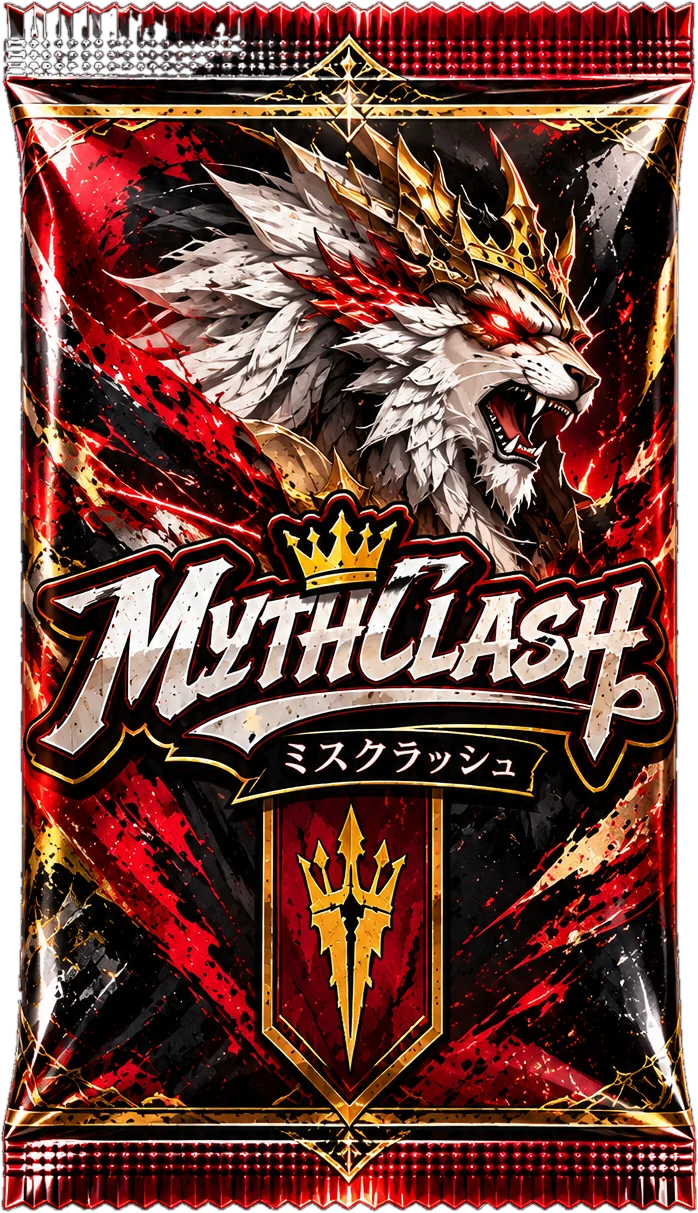
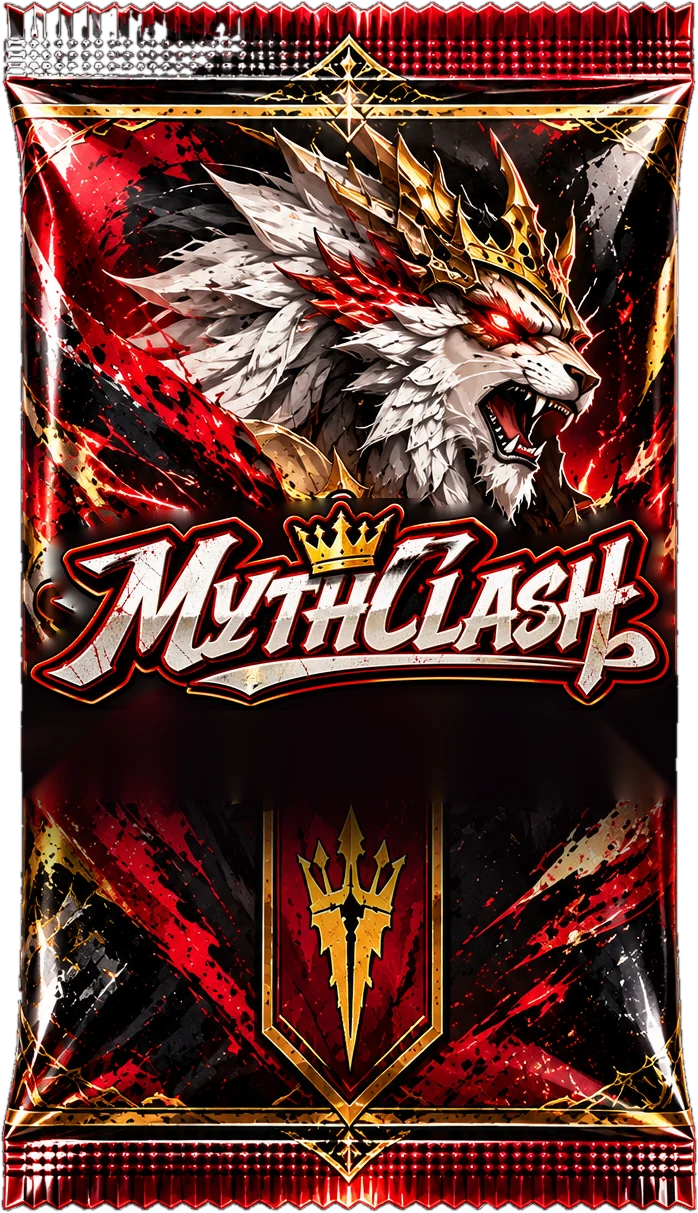
MYTHCLASH: タイトルとパックのロゴを新しいロゴに差しかえ（カタカナは消す）
Claude-Session: https://claude.ai/code/session_01MXithgTc5umkveoyZShZHQ

Changed region(s): [[0.0301, 0.3965, 0.9928, 0.7626]]

diff --git a/src/scenes/BattleMenuScene.ts b/src/scenes/BattleMenuScene.ts
@@ -14,7 +14,7 @@ const CARD = { w: 640, h: 400 };
 /** 看板2枚: 操作するバトル と MYTHCLASH。pic: 看板に使う絵とその切り抜き範囲(元の絵の座標) */
 const ENTRIES = [
   { id: 'action', scene: 'Battle', title: 'アクションバトル', sub: 'MONZを動かして たたかう', color: '#ff8a1f', pic: { key: DASH_BG_KEY, crop: [900, 250, 2150, 1020] } },
-  { id: 'mythclash', scene: 'MythTitle', title: 'MYTHCLASH', sub: 'カードを集めて 3対3でたたかう', color: '#c0182a', pic: { key: MYTH_TITLE_IMAGE, crop: [290, 185, 1160, 720] } },
+  { id: 'mythclash', scene: 'MythTitle', title: 'MYTHCLASH', sub: 'カードを集めて 3対3でたたかう', color: '#c0182a', pic: { key: MYTH_TITLE_IMAGE, crop: [20, 470, 832, 965] } },
 ] as const;
 
 /**

diff --git a/design/mythclash/make_logo.py b/design/mythclash/make_logo.py
@@ -2,12 +2,14 @@
 使い方: python3 -I design/mythclash/make_logo.py  (このあと make_pack.py)
 - 元の絵(title.png・pack.png)はそのまま残す。差しかえた絵は title_logo.png・pack_logo.png
 - 新しいロゴを、前のロゴ(英字の所)にぴったり重ねる。下に少しだけ暗いかげを入れて、前のロゴのふちが見えないようにする
-- 「ミスクラッシュ」の文字は、新しいロゴに無いので、前の絵のまま残る【仮】(消すかは企画者に確認)
+- 「ミスクラッシュ」の文字は消す(企画者 2026-10-26)。前のロゴの残る所(カタカナの帯など)は、まわりの絵からうめる(OpenCV の inpaint)
 - ゲーム用のタイトル(public/assets/mythclash/title.webp)もここで作る
 """
 import os
 import sys
-from PIL import Image, ImageFilter
+import cv2
+import numpy as np
+from PIL import Image, ImageDraw, ImageFilter
 
 HERE = os.path.dirname(os.path.abspath(__file__))
 ROOT = os.path.dirname(os.path.dirname(HERE))
@@ -16,8 +18,14 @@ logo = logo.crop(logo.getbbox())
 
 # 前のロゴ(英字の所)の左はし・右はし・上(王冠の先)。絵の座標
 PLACES = {
-    'title': {'src': 'title.png', 'out': 'title_logo.png', 'x0': 55, 'x1': 800, 'y0': 532},
-    'pack': {'src': 'pack.png', 'out': 'pack_logo.png', 'x0': 190, 'x1': 838, 'y0': 668},
+    # erase: 前のロゴの、新しいロゴで隠れない所(カタカナの帯・下のふち)。絵の座標の多角形
+    'title': {'src': 'title.png', 'out': 'title_logo.png', 'x0': 55, 'x1': 800, 'y0': 532,
+              'erase': [(40, 700), (815, 700), (815, 800), (700, 836), (560, 862), (330, 862), (220, 845), (40, 840)],
+              # うめた所が目立たないように、ロゴの下にやわらかい暗いかげ(中心x, 中心y, 横の半径, 縦の半径, こさ)
+              'plate': (427, 795, 500, 105, 0.95)},
+    'pack': {'src': 'pack.png', 'out': 'pack_logo.png', 'x0': 190, 'x1': 838, 'y0': 668,
+             'erase': [(185, 840), (845, 840), (845, 968), (716, 972), (428, 972), (185, 968)],
+             'plate': (514, 922, 400, 105, 0.92)},
 }
 
 
@@ -27,6 +35,22 @@ def compose(name: str) -> Image.Image:
     w = p['x1'] - p['x0']
     h = round(logo.height * w / logo.width)
     lg = logo.resize((w, h), Image.LANCZOS)
+    # 前のロゴの残る所を、まわりの絵からうめる(新しいロゴの形を少し太らせた所もいっしょに)
+    mask = Image.new('L', base.size, 0)
+    ImageDraw.Draw(mask).polygon(p['erase'], fill=255)
+    cover = Image.new('L', base.size, 0)
+    cover.paste(lg.split()[3].filter(ImageFilter.MaxFilter(21)), (p['x0'], p['y0']))
+    mask = Image.fromarray(np.maximum(np.asarray(mask), np.asarray(cover)))
+    rgb = cv2.cvtColor(np.asarray(base.convert('RGB')), cv2.COLOR_RGB2BGR)
+    filled = cv2.inpaint(rgb, np.asarray(mask), 9, cv2.INPAINT_TELEA)
+    base = Image.fromarray(cv2.cvtColor(filled, cv2.COLOR_BGR2RGB)).convert('RGBA')
+    cx, cy, rx, ry, k = p['plate']
+    plate = Image.new('L', base.size, 0)
+    ImageDraw.Draw(plate).ellipse((cx - rx, cy - ry, cx + rx, cy + ry), fill=int(255 * k))
+    plate = plate.filter(ImageFilter.GaussianBlur(40))
+    dark = Image.new('RGBA', base.size, (10, 3, 6, 0))
+    dark.putalpha(plate)
+    base.alpha_composite(dark)
     # かげ: ロゴの形を少し太らせて、ぼかす
     a = lg.split()[3].filter(ImageFilter.MaxFilter(15)).filter(ImageFilter.GaussianBlur(6))
     shade = Image.new('RGBA', lg.size, (8, 2, 4, 0))

diff --git a/design/mythclash/make_pack.py b/design/mythclash/make_pack.py
@@ -1,6 +1,7 @@
 """MYTHCLASH のパックの絵(design/mythclash/pack.png・企画者の絵)の黒い背景を消して、ゲーム用(public/assets/mythclash/pack.webp)にする。
 使い方: python3 -I design/mythclash/make_pack.py
 - 外側につながっている真っ黒な所だけ消す(パックの中の黒い模様は残す)。大きさは変えない(まわりの余白だけ切る)
+- ロゴを新しいロゴにした絵(pack_logo.png。make_logo.py で作る)があれば、そちらを使う(企画者 2026-10-26)
 """
 import os
 import numpy as np
@@ -9,8 +10,11 @@ from scipy import ndimage
 
 HERE = os.path.dirname(os.path.abspath(__file__))
 ROOT = os.path.dirname(os.path.dirname(HERE))
-im = Image.open(os.path.join(HERE, 'pack.png')).convert('RGB')
-a = np.asarray(im).astype(int)
+src = os.path.join(HERE, 'pack_logo.png')
+# 切り抜きの形は、いつも元の絵で決める(ロゴの下のかげが、背景とまちがえて消えないように)
+orig = Image.open(os.path.join(HERE, 'pack.png')).convert('RGB')
+im = Image.open(src).convert('RGB') if os.path.exists(src) else orig
+a = np.asarray(orig).astype(int)
 dark = a.max(2) < 26
 labels, _ = ndimage.label(dark)
 border = set(np.unique(np.concatenate([labels[0], labels[-1], labels[:, 0], labels[:, -1]]))) - {0}

diff --git a/docs/MYTHCLASH.md b/docs/MYTHCLASH.md
@@ -133,6 +133,12 @@
 - 必殺技とカウンターをかっこよく【確定】：必殺技＝画面が暗くなり、ななめの帯にカードと「必殺技！」のカットイン → 体当たり → 大きな当たり。カウンター＝盾の光と「COUNTER!」→ はね返す光が相手に当たる。
 - 効果音に重厚感【確定】：ひびき（残り音）をまぜた重い音にした（`sfx.ts` の reverb・heavy）。
 
+### ロゴの差しかえ（2026-10-26）【確定】
+- 企画者の新しいロゴ `design/mythclash/logo.png` に差しかえ。「ミスクラッシュ」のカタカナは消す（企画者）。
+- `design/mythclash/make_logo.py`：元の絵（title.png・pack.png）はそのまま残し、新しいロゴを前の英字にぴったり重ねた絵（title_logo.png・pack_logo.png）を作る。カタカナの帯の所は、まわりの絵からうめて、ロゴの下にやわらかい暗いかげを入れた。→ ゲーム用の title.webp・pack.webp（`make_pack.py`。切り抜きの形は元の絵で決める）。
+- バトルメニューの MYTHCLASH の看板も、新しいタイトルの絵のロゴの所を使う。
+- 【仮】うめた所は完全ではない。ロゴの無い元の絵があれば、もっときれいに作り直せる。
+
 ### 魔法演出のイメージ（2026-10-26）
 - 企画者のイメージ図 → `design/mythclash/magic_concept_2026-10-26.jpg`（炎・氷・雷・風・土・水・光・闇の8つ。使ったカードから相手のカードへ、大きな絵の演出がぶつかる。ダメージの数字は大きく、属性の色）。
 - 注意：ゲームの属性は 炎・水・雷・自然・光・闇・無 の7つ。氷・風・土 は属性に無い（氷は「凍結」の追加効果、自然は 風か土 の見た目にするか、企画者に確認中）。

diff --git a/docs/VISION.md b/docs/VISION.md
@@ -138,3 +138,4 @@
 - 2026-10-26：MYTHCLASH のバトル画面のイメージ図を受け取った（攻撃側と防御側をもっと分かりやすく）。テストプレイしたい → CPUと対戦できる画面を作った（`MythBattleScene`）
 - 2026-10-26：MYTHCLASH テストプレイの感想：長くはない（数字はそのまま）。タイトル・バトルを全画面に、カードをさわると大きく見られる（バトル・パックの結果）、攻撃音を強く → 直した
 - 2026-10-26：MYTHCLASH：倒されたとき・交代のときはカードを選ぶ、1ターン30秒、魔法は属性ごとの演出、必殺技・カウンターの演出と音をかっこよく、重厚感のある効果音 → 作った（`docs/MYTHCLASH.md`）
+- 2026-10-26：MYTHCLASH のロゴを新しいロゴに差しかえ（タイトル・パック）。カタカナ「ミスクラッシュ」は消す
